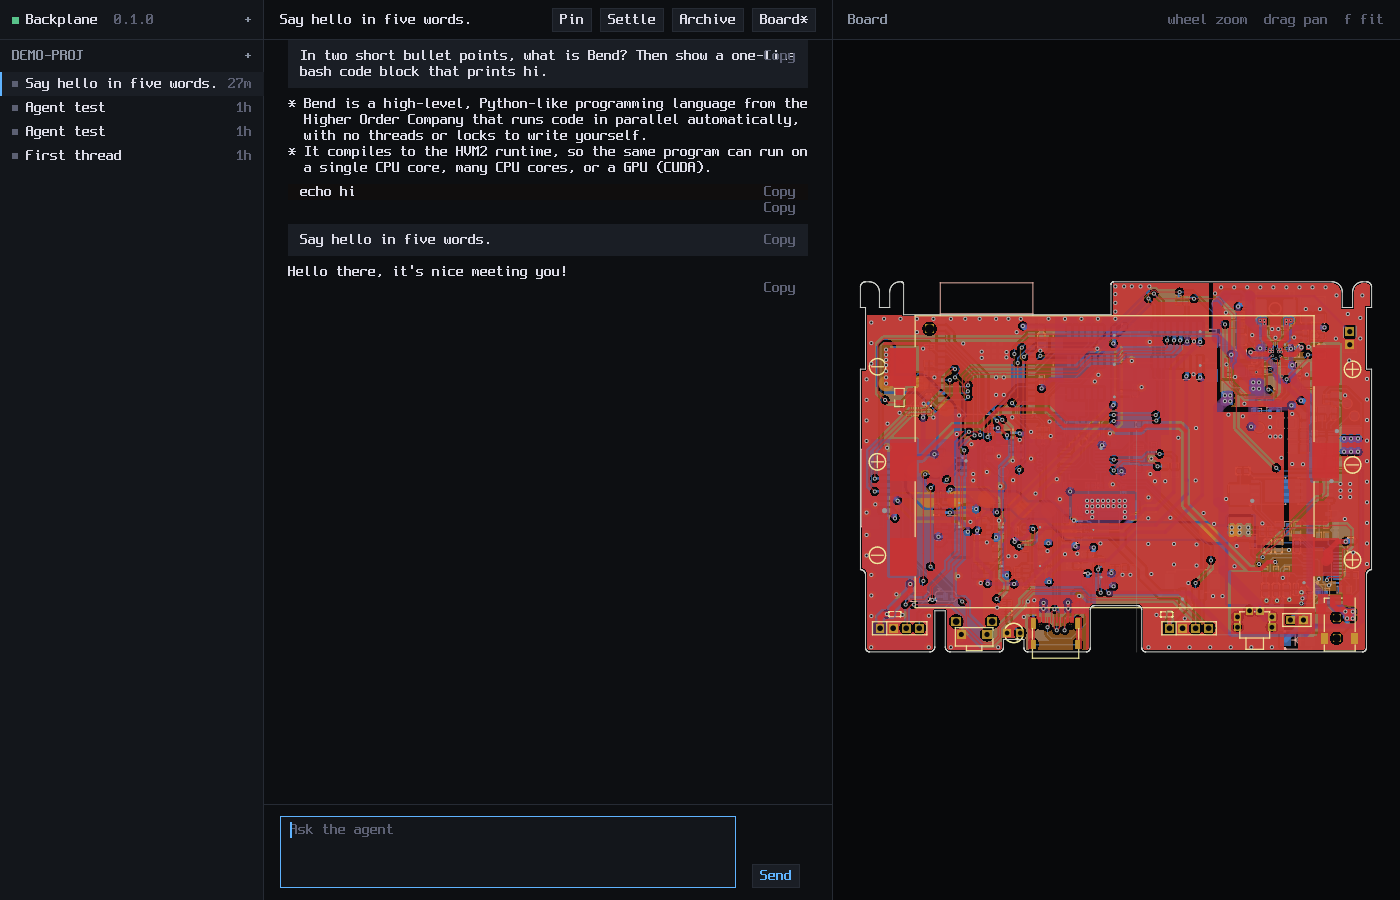
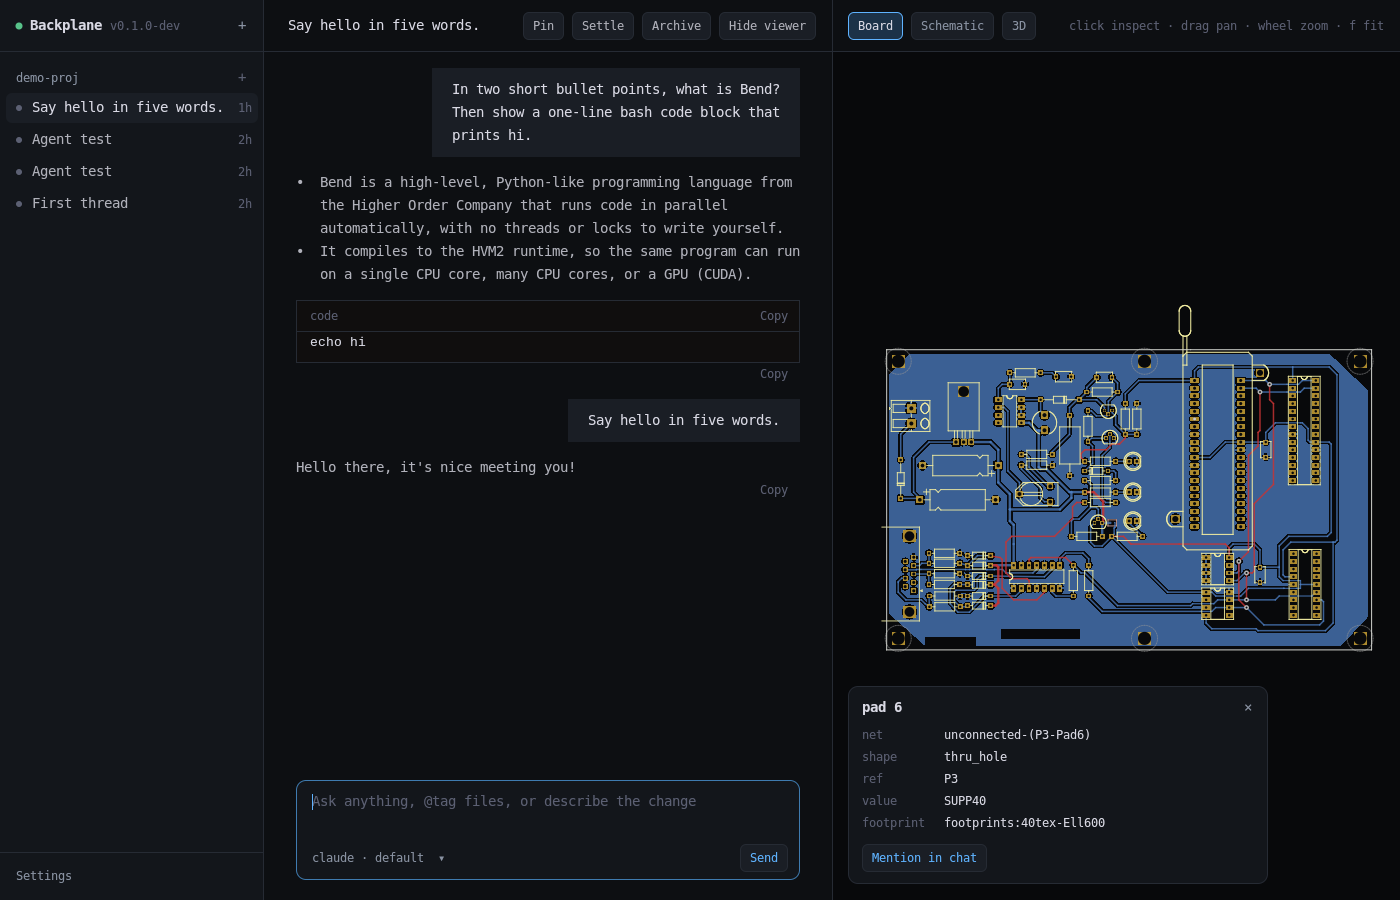
Package the browser and STEP helpers; README for 0.1.0

diff --git a/README.md b/README.md
@@ -1,12 +1,16 @@
 # Backplane (Bend)
 
 An agentic hardware development environment, written in
-[Bend](https://bend-lang.com). It pairs agent threads (Claude Code) with a
-live KiCad board viewer, in a native window drawn entirely by Bend.
+[Bend](https://bend-lang.com). It pairs agent threads (Claude Code and
+Codex) with live KiCad viewers, in a native window drawn entirely by Bend.
 
-- **Threads** per project, as in T3Code. They go *Settled* after three days of inactivity, and everything is kept in a local event log.
-- **A deterministic board viewer.** It always shows the file as it is now, never a half-written save. When the file changes, only what changed fades in, and an unchanged board never flickers. That last property is a proven law, not a hope.
+- **Threads** per project, as in T3Code. They go *Settled* after three days of inactivity (configurable), and everything is kept in a local event log. Each thread picks its provider and model.
+- **Models working together.** An agent can delegate tasks to other models through Backplane's MCP tools. The subagent viewer shows each child task, its model and state, under its parent thread. Laws bound the delegation depth and deliver each result exactly once.
+- **KiCad viewers that stay truthful.** Board, schematic and 3D tabs follow the project's canonical files live, never a half-written save. Only what changed fades in. Click any pad, track, symbol or pin to see what it is (net, ref, value, footprint) and mention it in chat. STEP files open in the 3D view.
+- **KiCad-aware agents.** Every agent is told the exact kicad-cli to use and the project's canonical files (from `.backplane.json` or the `.kicad_pro`). They also get the [KiStack](https://github.com/American-Embedded/KiStack) skills, pinned. With the [Backplane KiCad fork](https://github.com/i2cjak/Backplane_KiCad) they also get its IPC API server, which you can turn off in Settings. Settings can also install the fork.
+- **A browser for the agents.** It is Chrome: an installed Google Chrome, or Google's Chrome for Testing, which Backplane downloads. Agents drive it with `preview_*` tools, and you watch it live in the Browser tab.
 - **Laws.** The rules that matter are stated in [`LAWS.bend`](LAWS.bend) and proven in [`PROOF.bend`](PROOF.bend). `bend PROOF.bend` checks every one.
+- **Anywhere on your tailnet.** `backplane --tailscale` serves the web client to your other devices, gated by a pairing token.
 
 ![Backplane](docs/media/native-viewer.png)
 
@@ -31,7 +35,7 @@ You need [Bend](https://bend-lang.com), clang 19+, X11 headers (`libx11-dev`), a
 ```sh
 scripts/check.sh   # type-check everything, prove every law
 scripts/test.sh    # unit tests
-scripts/build.sh   # dist/backplane, dist/backplane-serve, dist/web
+scripts/build.sh   # dist/backplane, dist/backplane-serve, dist/web (+ helpers with bun)
 scripts/smoke.sh   # start the built server and poke it
 ```
 
@@ -47,3 +51,10 @@ scripts/smoke.sh   # start the built server and poke it
 | `scene_merge_self` | Re-reading an unchanged board re-fades nothing. |
 | `fade_start`, `fade_done` | Fades start invisible and always finish. |
 | `update_never_same` | The updater never offers the version already running. |
+| `task_*`, `delegation_bounded` | A finished task never changes again or goes back to the queue. Its result reaches the parent once. Delegation stops at a fixed depth. |
+| `setting_default` | A setting never set reads as its default. |
+| `stale_board_ignored` | A file read for a view you have left changes nothing on screen. |
+
+## License
+
+MIT. See [LICENSE](LICENSE). `backplane-step2glb` embeds OpenCascade (LGPL-2.1); its notices ship in `licenses/`.
